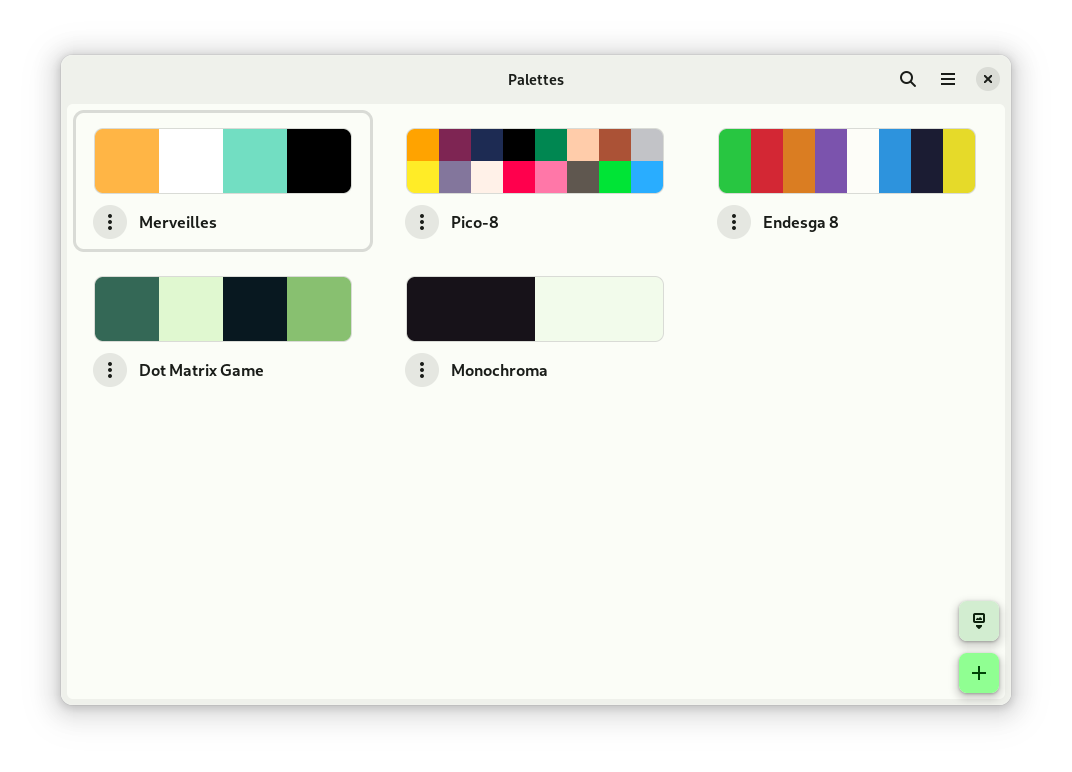
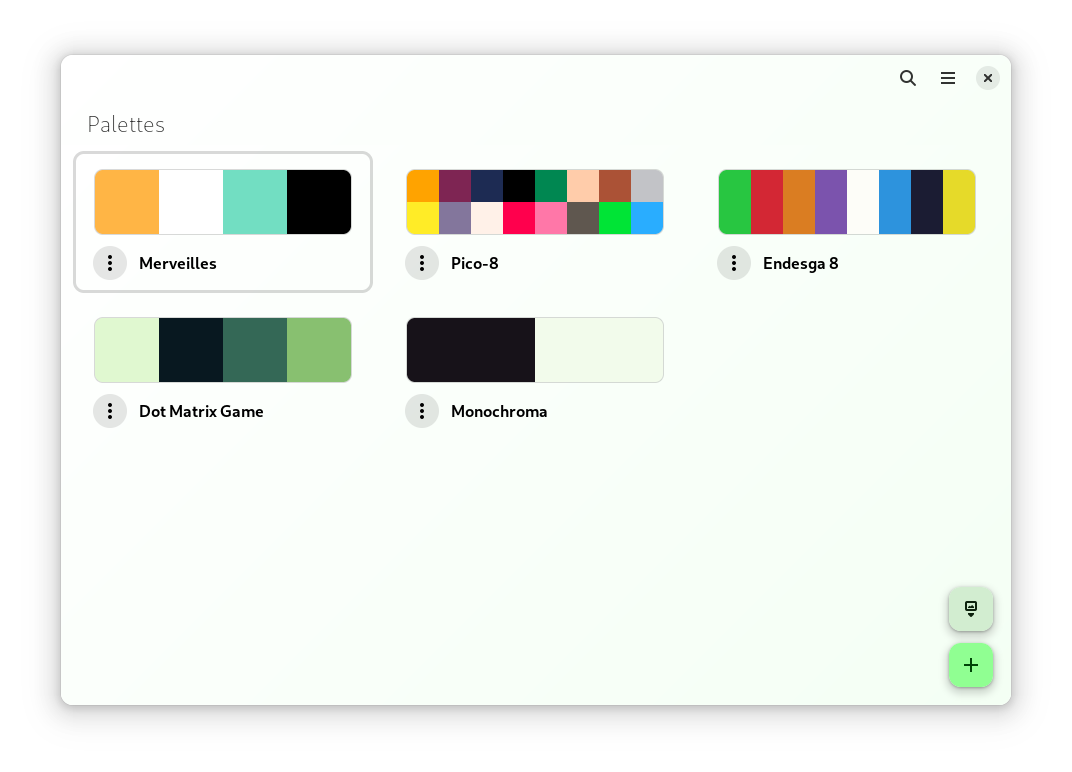
* - Solo 2.0 UI

diff --git a/data/style.css b/data/style.css
@@ -4,15 +4,8 @@
 @define-color accent_secondary_color #d2edd0;
 @define-color accent_secondary_bg_color #d2edd0;
 @define-color accent_secondary_fg_color #0d220d;
-@define-color window_bg_color #eff1eb;
-@define-color view_bg_color #fbfdf7;
-@define-color headerbar_bg_color #eff1eb;
-@define-color popover_bg_color #fbfdf7;
-@define-color popover_fg_color #1a1d19;
-@define-color window_fg_color #1a1d19;
-@define-color view_fg_color #1a1d19;
-@define-color headerbar_fg_color #1a1d19;
-@define-color borders alpha(#73796f, 0.5);
+@define-color window_bg_color #fff;
+@define-color headerbar_bg_color #fff;
 
 .solid-csd {
   box-shadow: none;
@@ -113,49 +106,53 @@ gridview child:selected .color-box {
   background: shade(@accent_secondary_bg_color, 0.95);
 }
 .eml-view {
-  background: @window_bg_color;
+  background: linear-gradient(135deg, @window_bg_color, mix(@window_bg_color, @accent_bg_color, 0.1));
 }
 .eml-view gridview {
-  border-radius: 6px;
   margin: 6px;
   margin-top: 0px;
-}
-.eml-title-label {
-  padding: 8px 12px;
+  background: none;
 }
 .eml-search-box box {
-  background: @window_bg_color;
+  background: none;
   border: none;
   box-shadow: none;
-}
-.eml-search-box box:backdrop {
-  background: shade(@view_bg_color, 0.98);
 }
 .eml-title {
   border: none;
   box-shadow: none;
-}
-.eml-title-box:backdrop {
-  background: shade(@view_bg_color, 1.05);
-  color: alpha(@view_fg_color, 0.66);
-}
-.eml-header-button:not(:hover):not(:active),
-.eml-header-button .toggle:not(:hover):not(:active):not(:checked) {
   background: none;
 }
 .eml-color-label {
   font-size: 1.1rem;
   font-weight: 700;
 }
-.eml-entry {
-  background: none;
-  border-radius: 8px;
-  border: 1px solid @borders;
-}
-.eml-header-title {
-  padding: 15px;
-}
 
 .eml-header-toggle-button .toggle {
   border-radius: 9999px;
+}
+
+.view-title {
+  font-size: 1.5rem;
+  font-weight: 300;
+  background: none;
+  padding: 8px;
+}
+.title-label {
+  padding: 8px;
+}
+
+entry.view-title {
+  font-weight: 600;
+  margin: 0;
+  padding: 4px;
+}
+
+.eml-box {
+  background: none;
+  box-shadow: inset 0 0 0 5px @borders;
+}
+
+.eml-box:hover {
+  background: alpha(@window_fg_color, 0.05);
 }

diff --git a/data/style-dark.css b/data/style-dark.css
@@ -4,38 +4,10 @@
 @define-color accent_secondary_color #3a4e39;
 @define-color accent_secondary_bg_color #3a4e39;
 @define-color accent_secondary_fg_color #d2edd0;
-@define-color window_bg_color #1a1d19;
-@define-color view_bg_color #2f312e;
-@define-color headerbar_bg_color #1a1d19;
-@define-color popover_bg_color #2f312e;
-@define-color popover_fg_color #fafef9;
-@define-color window_fg_color #fafef9;
-@define-color view_fg_color #fafef9;
-@define-color headerbar_fg_color #fafef9;
-@define-color borders alpha(#8c9288, 0.5);
+@define-color window_bg_color #111;
+@define-color headerbar_bg_color #111;
 
 .eml-view {
-  background: @window_bg_color;
-}
-
-.eml-title-box {
-  background: @headerbar_bg_color;
-}
-
-.eml-title-box:backdrop {
-  background: shade(@headerbar_bg_color, 0.99);
-  color: alpha(@view_fg_color, 0.5);
-}
-
-.eml-search-box box {
-  background: @window_bg_color;
-}
-
-.eml-search-box box:backdrop {
-  background: shade(@view_bg_color, 0.75);
-}
-
-.eml-search-box entry {
-  background: shade(@view_bg_color, 0.5);
+  background: linear-gradient(135deg, @window_bg_color, mix(@window_bg_color, @accent_bg_color, 0.1));
 }
 

diff --git a/data/style-hc.css b/data/style-hc.css
@@ -1,7 +1,3 @@
 .list-action-button {
   border: 1px solid @borders;
 }
-
-.eml-view gridview {
-  border: 1px solid @borders;
-}
